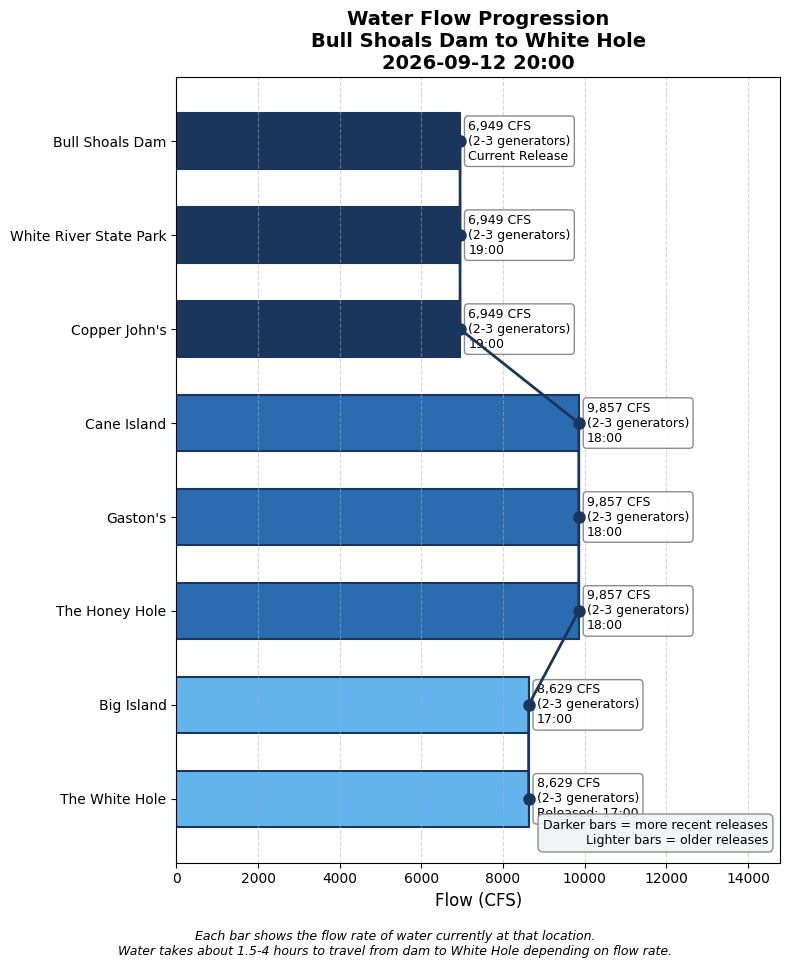
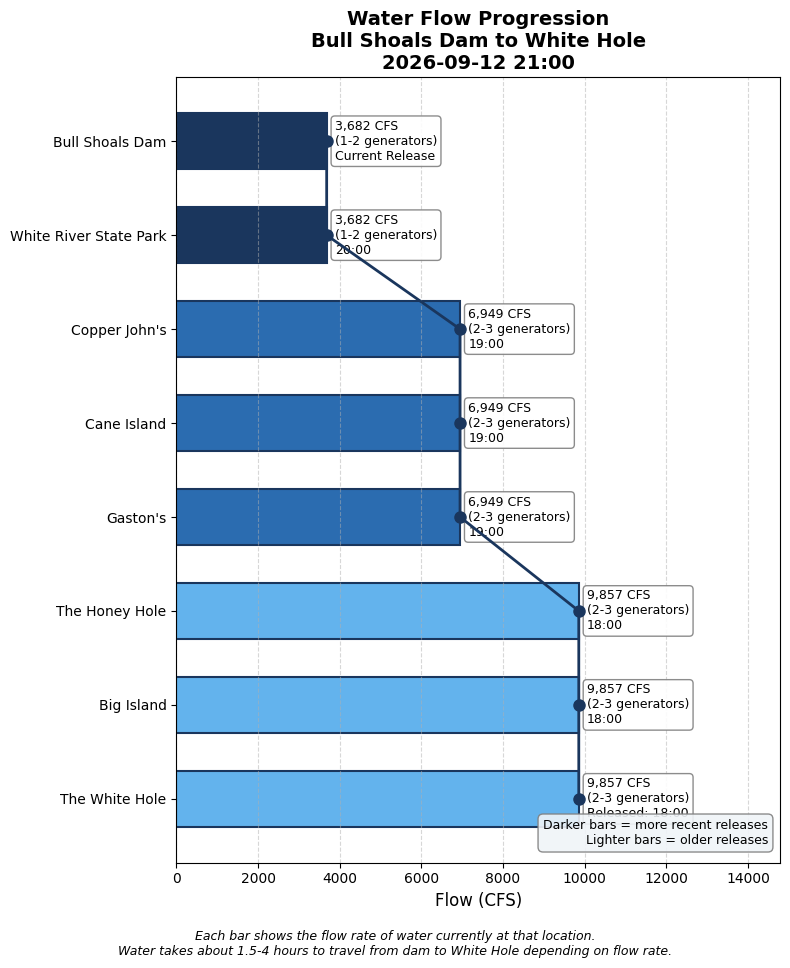
Update water conditions 2026-09-12 22:00

Changed region(s): [[0.2127, 0.093, 0.881, 0.8678], [0.6684, 0.062, 0.6987, 0.093]]

diff --git a/white_hole_conditions.html b/white_hole_conditions.html
@@ -3,7 +3,7 @@
 <head>
     <meta charset="UTF-8">
     <meta name="viewport" content="width=device-width, initial-scale=1.0">
-    <title>White Hole Conditions - 2026-09-12 20:00</title>
+    <title>White Hole Conditions - 2026-09-12 21:00</title>
     <style>
         body {
             font-family: -apple-system, BlinkMacSystemFont, 'Segoe UI', Roboto, sans-serif;
@@ -148,7 +148,7 @@
 </head>
 <body>
     <h1>White Hole Current Conditions</h1>
-    <p class="subtitle">Saturday, September 12, 2026 at 08:00 PM</p>
+    <p class="subtitle">Saturday, September 12, 2026 at 09:00 PM</p>
 
 
     <!-- HEADLINE BANNER -->
@@ -161,7 +161,7 @@
     <!-- CURRENT CONDITIONS -->
     <div class="current-conditions">
         <h3>Current Conditions at White Hole</h3>
-        <div class="flow-display">8,629 CFS</div>
+        <div class="flow-display">9,857 CFS</div>
         <div class="generator-display">Equivalent to 2-3 generators</div>
         <div class="condition-pills">
             <span class="pill wading">No Wading</span>
@@ -213,39 +213,31 @@
                         </td>
                     </tr>
                 
-                    <tr style="background-color: #faf5ff; ">
-                        <td style="padding: 10px; font-weight: bold;">8 PM</td>
-                        <td style="padding: 10px;">2,276 CFS<br><small style="color: #666;">(0-1 generators: 2026 generation + 250 min flow)</small></td>
-                        <td style="padding: 10px;">~11:33 PM
-                            <span style="display: inline-block; margin-left: 6px; padding: 2px 8px; border-radius: 12px; font-size: 0.8em; background-color: #fef3c7; color: #92400e;">Still Wadable</span>
-                        </td>
-                    </tr>
-                
             
                     
                 <tr><td colspan="3" style="padding: 8px 10px; font-size: 0.8em; font-weight: bold; color: #2b6cb0; text-transform: uppercase; letter-spacing: 0.05em; background-color: #ebf8ff;">Actual (dam readings)</td></tr>
                 
                     <tr style="background-color: #ebf8ff;">
-                        <td style="padding: 10px; font-weight: bold;">7:00 PM</td>
-                        <td style="padding: 10px;">6,949 CFS<br><small style="color: #666;">(2-3 generators)</small></td>
-                        <td style="padding: 10px;"><span style="color: #2b6cb0;">→ Arrives ~9:46 PM (in 106 min)</span></td>
+                        <td style="padding: 10px; font-weight: bold;">8:00 PM</td>
+                        <td style="padding: 10px;">3,682 CFS<br><small style="color: #666;">(1-2 generators)</small></td>
+                        <td style="padding: 10px;"><span style="color: #2b6cb0;">→ Arrives ~11:12 PM (in 132 min)</span></td>
                     </tr>
                 
                     <tr style="background-color: #ebf8ff;">
-                        <td style="padding: 10px; font-weight: bold;">6:00 PM</td>
-                        <td style="padding: 10px;">9,857 CFS<br><small style="color: #666;">(2-3 generators)</small></td>
-                        <td style="padding: 10px;"><span style="color: #2b6cb0;">→ Arrives ~8:32 PM (in 32 min)</span></td>
+                        <td style="padding: 10px; font-weight: bold;">7:00 PM</td>
+                        <td style="padding: 10px;">6,949 CFS<br><small style="color: #666;">(2-3 generators)</small></td>
+                        <td style="padding: 10px;"><span style="color: #2b6cb0;">→ Arrives ~9:46 PM (in 46 min)</span></td>
                     </tr>
                 
                     <tr style="background-color: #e6fffa;">
-                        <td style="padding: 10px; font-weight: bold;">5:00 PM</td>
-                        <td style="padding: 10px;">8,629 CFS<br><small style="color: #666;">(2-3 generators)</small></td>
+                        <td style="padding: 10px; font-weight: bold;">6:00 PM</td>
+                        <td style="padding: 10px;">9,857 CFS<br><small style="color: #666;">(2-3 generators)</small></td>
                         <td style="padding: 10px;"><span style="color: #319795; font-weight: bold;">← AT WHITE HOLE NOW</span></td>
                     </tr>
                 
                     <tr style="">
-                        <td style="padding: 10px; font-weight: bold;">2:00 PM</td>
-                        <td style="padding: 10px;">2,046 CFS<br><small style="color: #666;">(0-1 generators)</small></td>
+                        <td style="padding: 10px; font-weight: bold;">3:00 PM</td>
+                        <td style="padding: 10px;">2,071 CFS<br><small style="color: #666;">(0-1 generators)</small></td>
                         <td style="padding: 10px;"><span style="color: #718096;">passed</span></td>
                     </tr>
                 
@@ -276,9 +268,9 @@
         </summary>
         <div style="padding: 15px;">
             <ul>
-                <li>Latest dam reading: 6,949 CFS at 2026-09-12 19:00</li>
-                <li>Travel time to White Hole: 2.6 hours at current flow</li>
-                <li>White Hole conditions based on dam reading from: 2026-09-12 17:00</li>
+                <li>Latest dam reading: 3,682 CFS at 2026-09-12 20:00</li>
+                <li>Travel time to White Hole: 2.5 hours at current flow</li>
+                <li>White Hole conditions based on dam reading from: 2026-09-12 18:00</li>
             </ul>
         </div>
     </details>
@@ -300,6 +292,13 @@
                     </thead>
                     <tbody>
                         
+                <tr style="border-bottom: 1px solid #eee;">
+                    <td style="padding: 8px;">2026-09-12 20:00</td>
+                    <td style="padding: 8px; text-align: right;">3682</td>
+                    <td style="padding: 8px; text-align: right;">1.1</td>
+                    <td style="padding: 8px; text-align: right;">3.2</td>
+                </tr>
+                
                 <tr style="border-bottom: 1px solid #eee;">
                     <td style="padding: 8px;">2026-09-12 19:00</td>
                     <td style="padding: 8px; text-align: right;">6949</td>
@@ -370,13 +369,6 @@
                     <td style="padding: 8px; text-align: right;">3.7</td>
                 </tr>
                 
-                <tr style="border-bottom: 1px solid #eee;">
-                    <td style="padding: 8px;">2026-09-12 09:00</td>
-                    <td style="padding: 8px; text-align: right;">1884</td>
-                    <td style="padding: 8px; text-align: right;">0.6</td>
-                    <td style="padding: 8px; text-align: right;">3.7</td>
-                </tr>
-                
                     </tbody>
                 </table>
             </div>
@@ -388,12 +380,12 @@
     <details class="timeline-box">
         <summary style="cursor: default; list-style: none;">
             <h3 style="display: inline;">🎣 Fishing Report — Gaston's to Cranor's Island</h3>
-            <span style="color: #666; margin-left: 8px;">2–3 units (5,000–10,000 CFS) · 8,629 CFS</span>
+            <span style="color: #666; margin-left: 8px;">2–3 units (5,000–10,000 CFS) · 9,857 CFS</span>
         </summary>
         <p style="color: #666; margin: 12px 0 4px;">Fall (September–October): pre-spawn browns</p>
         
         <p style="font-size: 1.1em; margin: 10px 0;"><strong>2–3 units (5,000–10,000 CFS)</strong>
-            — 8,629 CFS at White Hole (2-3 generators)</p>
+            — 9,857 CFS at White Hole (2-3 generators)</p>
         <p style="color: #444;">Fish move to the banks and flooded grass. No wading. Fish the edges, not open water — and the brown-trout window starts opening.</p>
         <p style="margin: 6px 0; font-size: 0.9em;"><a href="https://www.google.com/maps?q=36.347597191038865,-92.55540040484095" target="_blank" style="color: #2b6cb0;">📍 Gaston's</a> · <a href="https://www.google.com/maps?q=36.329897607316106,-92.53355649411128" target="_blank" style="color: #2b6cb0;">📍 White Hole</a> · <a href="https://www.google.com/maps?q=36.333492497534266,-92.56191314472997" target="_blank" style="color: #2b6cb0;">📍 Cranor's Island</a></p>
         <h4 style="color: #2c3e50; margin: 18px 0 6px;">Where to go</h4>
@@ -403,7 +395,7 @@
         <ul style="margin: 0 0 0 5px;"><li>Tie high to a tree, not the anchor — a bump in generation reaches this reach fast</li><li>Tie from the BOW with slack, re-tend the rope every 20–30 minutes on rising water</li><li>Bank-lane drifts are the coverage alternative to tying — trade the driver's rod for water covered</li><li>Know what's downstream before committing to a spot; there is no warning siren on this river</li></ul>
 
         <h4 style="color: #2c3e50; margin: 18px 0 6px;">Timing</h4>
-        <ul style="margin: 0 0 0 5px;"><li>Fish the generation change: the leading edge of a rise and the first hour of falling water beat any time on the clock</li><li>SCHEDULED DROP to 2,276 CFS at 8 PM: low water reaches Gaston's ~10:04 PM · White Hole ~11:33 PM · Cranor's Island ~12:49 AM</li></ul>
+        <ul style="margin: 0 0 0 5px;"><li>Fish the generation change: the leading edge of a rise and the first hour of falling water beat any time on the clock</li><li>DROP EN ROUTE: 6,949 CFS reaches White Hole ~9:46 PM — the first hour of falling water is a prime bite window</li><li>SCHEDULED DROP to 1,600 CFS at 9 PM: low water reaches Gaston's ~11:10 PM · White Hole ~12:44 AM · Cranor's Island ~2:04 AM</li></ul>
 
         <div style="background-color: #f0f7f4; border-radius: 8px; padding: 15px; margin-top: 18px;">
             <h4 style="color: #2c3e50; margin: 0 0 8px;">🎣 Spin Fishing</h4>
@@ -493,7 +485,7 @@
     </details>
 
     <div class="timestamp">
-        Data retrieved and processed on 2026-09-12 20:00:11 (Central time)<br>
+        Data retrieved and processed on 2026-09-12 21:00:08 (Central time)<br>
         Travel times are observational estimates (per <a href="https://www.hisplaceresort.net/white-river-info" target="_blank" style="color: #718096;">His Place Resort</a>) &mdash; always judge wading safety on-site.<br>
         &copy; 2026 Brian Carroll. All rights reserved.
     </div>
